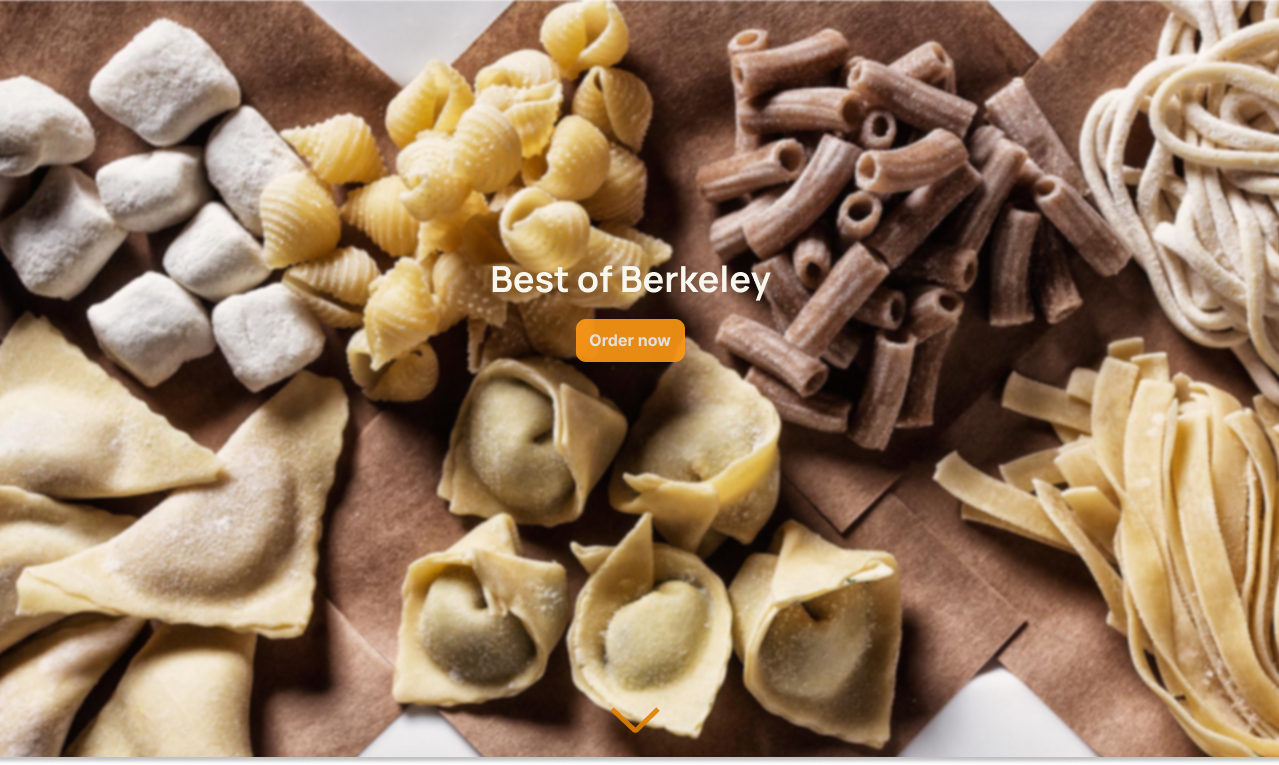
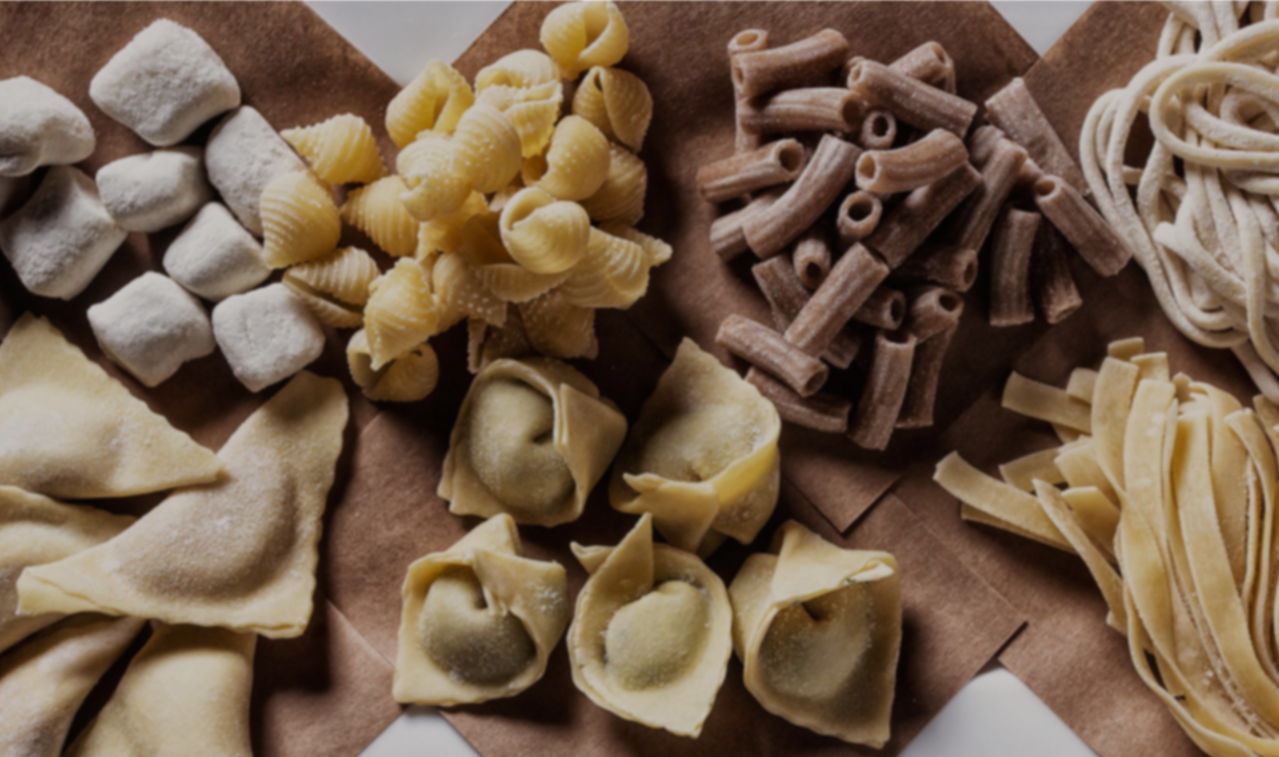
done with first two nodes working on third

diff --git a/midterm/midterm-starter/assets/css/landing.css b/midterm/midterm-starter/assets/css/landing.css
@@ -1,0 +1,165 @@
+@import "./style.css";
+
+/* -- SET UP -- */
+
+:root{
+    --landing-text-load-time:600ms;
+    --landing-button-load-delay:var(--landing-text-load-time);
+    --landing-button-load-time:600ms;
+    --header-delay-time:calc(var(--landing-text-load-time) + var(--landing-button-load-time));
+    --header-load-time:800ms;
+}
+
+html{
+    /* TODO: prevent scrolling until animations completed */
+}
+
+header{
+    transform:translateY(-100%);
+    animation-name:headerAnimation;
+    animation-duration:var(--header-load-time);
+    animation-timing-function:ease-in;
+    animation-delay:var(--header-delay-time);
+    animation-fill-mode: forwards;
+}
+
+/* -- INITIAL VIEW ON LOAD -- */
+#landingImgSection{
+    display:flex;
+    justify-content: center;
+    flex-wrap:wrap;
+}
+
+#landingImg{
+    height:100vh;
+    width:100vw;
+}
+
+#landingOptions{
+    position:absolute;
+    text-align: center;
+    margin-top:50vh;
+    transform:translateY(-10vh);
+    color: var(--material-white);
+}
+#landingTxt{
+    animation-name:fadeInSlideDown;
+    animation-duration: var(--landing-text-load-time);
+    animation-timing-function: ease-in;
+    line-height:25px;
+}
+#landingButton{
+    border:none;
+    border-radius:10px;
+    background-color:var(--material-orange);
+    padding:10px 14px;
+    color:var(--material-white);
+    font-size:18px;
+    font-family:"Inter";
+    font-weight:bolder;
+    opacity:0;
+    animation-name:fadeInSlideDown;
+    animation-duration:var(--landing-button-load-time);
+    animation-timing-function: ease-in;
+    animation-delay:var(--landing-button-load-delay);
+    animation-fill-mode:forwards;
+}
+#chevron{
+    position:absolute;
+    bottom:25px;
+    transform:scale(1.15);
+    opacity:0;
+    animation-name:fadeIn;
+    animation-duration:var(--header-load-time);
+    animation-timing-function:linear;
+    animation-delay:var(--header-delay-time);
+    animation-fill-mode:forwards;
+
+}
+
+/* -- MENU NODE -- */
+#menuNode{
+    background-color:var(--material-red);
+    /* FIXME: Fix the image from scaling improperly
+     * Probbaly use a media query at 1028px */
+}
+.splitNode{
+    width:100%;
+    display:flex;
+    flex-direction:row;
+    padding:56px 122px;
+    justify-content:space-evenly;
+}
+.splitNodeTextSection{
+    margin-left:30px;
+    background-color:var(--material-black);
+    color:var(--material-white);
+    width:240px;
+    display:flex;
+    flex-direction:column;
+    align-items:center;
+    justify-content:center;
+    padding:60px 53px;
+}
+.splitNodeTextSection > h2{
+    line-height:3px;
+}
+.splitNodeTextSection > p{
+    text-align:center;
+    margin-top:40px;
+    margin-bottom:30px;
+}
+.splitNodeTextSection > button{
+    border: 1px solid var(--material-white);
+    border-radius:5px;
+    background-color:var(--material-black);
+    color:var(--material-white);
+    font-family:"Inter";
+    font-weight:bolder;
+    font-size:16px;
+    line-height:0;
+    padding:15px 10px;
+}
+.splitNode > *{
+    box-shadow:4px 4px 4px rgba(0, 0, 0, 0.45);
+    border-radius:5px;
+}
+
+/* -- QUOTE NODE -- */
+#quoteNode{
+    width:100%;
+    background-color:var(--material-white);
+    padding:56px 122px;
+    display:flex;
+    justify-content:space-between;
+}
+
+/* -- ANIMATIONS -- */
+@keyframes fadeInSlideDown{
+    0%{
+        opacity:0;
+        transform:translateY(-8px);
+    }
+    100%{
+        opacity:1;
+    }
+}
+
+@keyframes headerAnimation{
+    0%{
+        box-shadow:none;
+    }
+    100%{
+        transform:none;
+        box-shadow:4px 4px 4px rgba(0, 0, 0, 0.45);
+    }
+}
+
+@keyframes fadeIn{
+    0%{
+        opacity:0;
+    }
+    100%{
+        opacity:1;
+    }
+}

diff --git a/midterm/midterm-starter/index.html b/midterm/midterm-starter/index.html
@@ -3,16 +3,19 @@
     <head>
         <meta charset="UTF-8" />
         <meta name="viewport" content="width=device-width, initial-scale=1.0" />
-        <meta name="description" content="Survey for finding journal prompts built for Emotewell.com" />
+        <meta name="description" content="Gypsy's Website redesign by Connor Bernard" />
         <meta name="author" content="Connor Bernard" />
-        <link rel="stylesheet" href="./assets/css/style.css" />
-
-        <title>Gypsie's</title>
+        <link rel="shortcut icon" type="image/x-icon" href="favicon.ico" />
+        <link rel="stylesheet" type="text/css" href="./assets/css/landing.css" />
+        <title>Gypsy's</title>
     </head>
     <body>
+        <script src="./assets/js/landing.js" type="text/javascript" defer="defer"></script>
         <header>
-            <img class="logo" src="./assets/img/logo.png" alt="logo" height="40px"/>
-            <span class="logoText">Gypsy's</span>
+            <div class="logo">
+                <img class="logoImg" src="./assets/img/logo.png" alt="logo" height="40px"/>
+                <div class="logoText">Gypsy's</div>
+            </div>
             <div class="navBar">
                 <div class="navItem cateringLink">Catering</div>
                 <div class="navItem locationLink">Location</div>
@@ -20,8 +23,44 @@
                 <div class="navItem menuLink">Menu</div>
             </div>
         </header>
-        <div id="landingSection">
-            <img id="landingImage" src="./assets/img/landing.png" alt="picture of pastas" />
+
+        <section id="landingImgSection">
+            <img id="landingImg" src="./assets/img/landing.png" alt="picture of pastas" />
+            <div id="landingOptions">
+                <h1 id="landingTxt">Best of Berkeley</h1>
+                <button id="landingButton">Order Now</button>
+            </div>
+            <img id="chevron" src="./assets/img/chevron.png" />
         </div>
+
+        <section id="menuNode" class="splitNode">
+            <img alt="Photo of pasta" src="./assets/img/tricolore.png" />
+            <div class="splitNodeTextSection">
+                <h2>Our Menu</h2>
+                <img src="./assets/img/redLIne.png" />
+                <p>
+                    Everything is made from scratch in the restaurant on a daily basis, 
+                    including base sauces, stocks, and meatballs.
+                    Prices are low and affordable, ranging from $8.74 to $12.74.
+                </p>
+                <button>View Menu</button>
+            </div>
+        </section>
+
+        <section id="quoteNode">
+            <img alt="yelp logo" src="./assets/img/yelp.png" />
+            <div id="review">
+                <h3>Voted Number 1 Best Italian Food in Berkeley</h3>
+                <img src="./assets/img/redLine.png" />
+                <p>
+                    “One of my favorite restaurants anywhere. Food tastes great.
+                    Prices are low. Portions are huge. The calzones look like
+                    footballs. That's all you need to know from me.”
+
+                    - Peter Alfonsi
+                </p>
+            </div>
+            <img src="./assets/img/snackpass.png" />
+        </section>
     </body>
 </html>

diff --git a/midterm/midterm-starter/assets/css/style.css b/midterm/midterm-starter/assets/css/style.css
@@ -7,26 +7,59 @@
     --material-white:#F7F7F0;
     --material-black:#181716;
 }
+
+h1, h2, h3{
+    font-family:"Manrope";
+    font-weight:bold;
+    font-size:36px;
+}
+h2{
+    font-size:30px;
+}
+h3{
+    font-size:18px;
+}
+p{
+    font-family:"Inter";
+    font-size:16px;
+    line-height: 143%;
+}
+
 html{
     margin:0;
+    -ms-overflow-style:none;
+    scrollbar-width:none;
+    overflow-x:hidden;
 }
+html::-webkit-scrollbar{
+    display:none;
+}
+
 body{
     margin:0;
-    background-color:red;
 }
+
 header{
     position:fixed;
     width:100%;
-    padding: 8px 110px;
     background-color:var(--material-white);
-    display:inline-flex;
+    display:flex;
+    justify-content: space-between;
     flex-wrap:nowrap;
-    align-items:center;
     box-shadow:4px 4px 4px rgba(0, 0, 0, 0.45);
+    min-height:6.5%;
 }
 .logo{
-    margin-right:5px;
-    transform:translateY(5px);
+    margin-left:7%;
+    align-self:center;
+    display:flex;
+    flex-direction:row;
+    margin-bottom:10px;
+}
+.logoImg{
+    margin-right:10px;
+    align-self:center;
+    transform:translateY(3px);
 }
 .logoText{
     font-family:"Manrope";
@@ -35,12 +68,12 @@ header{
     font-size:38px;
 }
 .navBar{
-    margin-left: auto;
     display:flex;
-    gap:30px;
     flex-direction:row;
+    gap:30px;
+    align-self:center;
     color:var(--material-black);
-    /*margin-right:15%; /* -- FIXME -- */
+    margin-right:7%;
 }
 .navItem{
     font-family:"Manrope";
